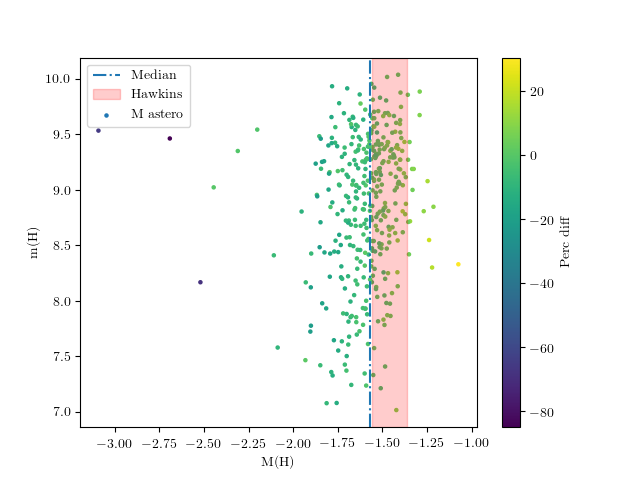
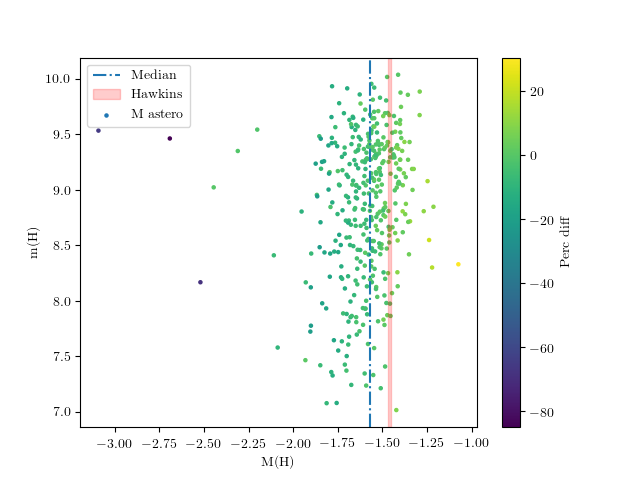
Added build_bclist.py for better bolometric checks.

Changed region(s): [[0.5625, 0.125, 0.6562, 0.9062]]

diff --git a/Scripts/inv_bol.py b/Scripts/inv_bol.py
@@ -18,6 +18,7 @@ from Starclass import Star
 #Define solar parameters
 Rsol = 695700e3 #meters
 Tsol = 5778 #K
+Msol = 1.989e30 #Kg
 Numaxsol = 3090 #Huber et al 2011ish
 Dnusol = 135.1
 stefboltz = 5.670367e-8 #Wm-2K-4
@@ -38,13 +39,69 @@ class Astero_Clump:
         R = Rsol * (self.numax / Numaxsol) * (self.dnu / Dnusol)**(-2) * (self.Teff / Tsol)**(0.5)
         return R
 
+    def get_radius_err(self):
+        try:
+            term = (Rsol/Numaxsol)*(self.dnu/Dnusol)**(-2)*(self.Teff/Tsol)**(0.5)
+            drdnumax = term**2 * self.numax_err**2
+        except TypeError: drdnumax = 0.
+
+        try:
+            term = (Rsol/Dnusol**(-2))*(self.numax/Numaxsol)*(self.Teff/Tsol)**(0.5) * (-2*self.dnu**(-3))
+            drdnu = term**2 * self.dnu_err**2
+        except TypeError: drdnu = 0.
+
+        try:
+            term = (Rsol/Tsol**(0.5))*(self.numax/Numaxsol)*(self.dnu / Dnusol)**(-2) * 0.5*self.Teff**(-0.5)
+            drdt = term**2 * self.Teff_err**2
+        except TypeError: drdt = 0.
+
+        sigR = np.sqrt(drdnumax + drdnu + drdt)
+        return sigR
+
+    def get_mass(self):
+        M = Msol * (self.numax / Numaxsol)**3 * (self.dnu / Dnusol)**(-4) * (self.Teff / Tsol)**(1.5)
+        return M
+
+    def get_mass_err(self):
+        try:
+            term = (Msol/Numaxsol**3)*(self.dnu/Dnusol)**(-4)*(self.Teff/Tsol)**(1.5) * 3*self.numax**2
+            drdnumax = term**2 * self.numax_err**2
+        except TypeError: drdnumax = 0.
+
+        try:
+            term = (Msol/Dnusol**(-4))*(self.numax/Numaxsol)**3*(self.Teff/Tsol)**(1.5) * (-4*self.dnu**(-5))
+            drdnu = term**2 * self.dnu_err**2
+        except TypeError: drdnu = 0.
+
+        try:
+            term = (Msol/Tsol**(1.5))*(self.numax/Numaxsol)**3*(self.dnu / Dnusol)**(-4) * 1.5*self.Teff**(0.5)
+            drdt = term**2 * self.Teff_err**2
+        except TypeError: drt = 0.
+
+        sigM = np.sqrt(drdnumax + drdnu + drdt)
+        return sigM
+
     def get_luminosity(self):
         L = 4 * np.pi * stefboltz * self.get_radius()**2 * self.Teff**4
         return L
 
+    def get_luminosity_err(self):
+        term1 = (8*np.pi*stefboltz*self.get_radius()*self.Teff**4)**2 * self.get_radius_err()**2
+        try:
+            term2 = (16*np.pi*stefboltz*self.get_radius()**2*self.Teff**5)**2 * self.Teff_err**2
+        except TypeError: term2 = 0.
+
+        sigL = np.sqrt(term1 + term2)
+        return sigL
+
     def get_bolmag(self):
         Mbol = Mbolsol - 2.5*np.log10(self.get_luminosity()/Lsol)
         return Mbol
+
+    def get_bolmag_err(self):
+        term = -2.5 / (self.get_luminosity() * np.log(10))
+        sigMbol = np.sqrt(term**2*self.get_luminosity_err()**2)
+        return sigMbol
 
     def get_bc(self, band):
         bcmodel = h5py.File('/home/oliver/PhD/Catalogues/BCgrids/bcgrid.h5','r')#Huber+17
@@ -107,7 +164,7 @@ if __name__ == "__main__":
 
         fig, ax = plt.subplots()
         col = ax.scatter(Mast,df[band],c=(Mtru-Mast)*100/Mtru, s=5,label='M astero')
-        ax.axvspan(hawkvals[band]-0.1,hawkvals[band]+0.1,alpha=.2,color='r',label='Hawkins')
+        ax.axvspan(hawkvals[band]-hawkerr,hawkvals[band]+hawkerr,alpha=.2,color='r',label='Hawkins')
         ax.axvline(np.median(Mast),linestyle='-.',label='Median')
         ax.set_xlabel('M('+band+')')
         ax.set_ylabel('m('+band+')')

diff --git a/Scripts/build_bclist.py b/Scripts/build_bclist.py
@@ -1,0 +1,91 @@
+import numpy as np
+import matplotlib.pyplot as plt
+import seaborn as sns
+import pandas as pd
+
+from astropy.table import Table
+from astropy.io import fits
+
+import glob
+from tqdm import tqdm
+import sys
+import os
+
+import barbershop
+from Starclass import Star
+from inv_bol import Astero_Clump
+
+#Define solar parameters
+Rsol = 695700e3 #meters
+Tsol = 5778 #K
+Msol = 1.989e30 #Kg
+Numaxsol = 3090 #Huber et al 2011ish
+Dnusol = 135.1
+stefboltz = 5.670367e-8 #Wm-2K-4
+Mbolsol = 4.74  #Torres
+Lsol = 4 * np.pi * stefboltz * Rsol**2 * Tsol**4
+
+def get_yu():
+    #Read in Jie Yu
+    print('Reading in Yu+2018')
+    sfile = '/home/oliver/PhD/Catalogues/RC_catalogues/Yu+18_table1.txt'
+    yu18_1 = pd.read_csv(sfile, sep='|')
+    sfile = '/home/oliver/PhD/Catalogues/RC_catalogues/Yu+18_table2.txt'
+    yu18_2 = pd.read_csv(sfile, sep='|')
+    yu18 = pd.merge(yu18_1, yu18_2, on='KICID',how='outer')
+    yu18.rename(columns={'KICID':'KIC','EvoPhase':'stage'},inplace=True) #For consistency
+    yu18.stage[yu18.stage == 0] = 'U'
+    yu18.stage[yu18.stage == 1] = 'RGB'
+    yu18.stage[yu18.stage == 2] = 'HeB'
+
+    #Lets build our new dataframe!
+    df = pd.DataFrame()
+    HeB = yu18.stage == 'HeB'
+    df['KIC'] = yu18.KIC[HeB]
+    df['numax'] = yu18.numax[HeB]
+    df['numax_err'] = yu18['err_x'][HeB]
+    df['dnu'] = yu18.dnu
+    df['dnu_err'] = yu18['err.1_x'][HeB]
+    df['Teff'] = yu18.Teff[HeB]
+    df['Teff_err'] = yu18['err_y'][HeB]
+    df['[Fe/H]'] = yu18['Fe/H'][HeB]
+    df['[Fe/H]_err'] = yu18['err.2_y'][HeB]
+
+
+    return df
+
+
+if __name__ == "__main__":
+    #The APOGEE columns we want are:
+    print('Reading in APOGEE...')
+    columns = ('APOGEE_ID', 'J','J_ERR','H','H_ERR','K','K_ERR','RA','DEC','GLON','GLAT',\
+                'TEFF','TEFF_ERR','LOGG','LOGG_ERR','M_H','M_H_ERR','ALPHA_M','ALPHA_M_ERR')
+    sfile = '/home/oliver/PhD/Catalogues/APOGEE/APOGEE_DR14.fits'
+    infile = fits.open(sfile)
+    fdata = infile[1].data
+    adf = pd.DataFrame()
+    #Build a new array with only the data I want
+    for column in columns:
+        adf[column] = fdata[column]
+    del infile
+    del fdata
+
+    #Read in Yu
+    df = get_yu()
+
+    AC = Astero_Clump(df, df.numax, df.dnu, df.Teff,\
+        _numax_err = df.numax_err, _dnu_err = df.dnu_err, _Teff_err = df.Teff_err)
+    df['R'] = AC.get_radius()/Rsol
+    df['R_err'] = AC.get_radius_err()/Rsol
+    df['M'] = AC.get_mass()/Msol
+    df['M_err'] = AC.get_mass_err()/Msol
+    df['L'] = AC.get_luminosity()/Lsol
+    df['L_err'] = AC.get_luminosity_err()/Lsol
+
+    #Cut low mass stars as recommended by Yvonne
+    df = df[df.M > 0.8]
+    df = df.reindex()
+
+    plt.scatter(df.numax, df.R,s=5,zorder=1000)
+    plt.errorbar(df.numax, df.R, xerr=df.numax_err, yerr=df.R_err, alpha=.3,color='grey', fmt=None,zorder=999)
+    plt.show()
